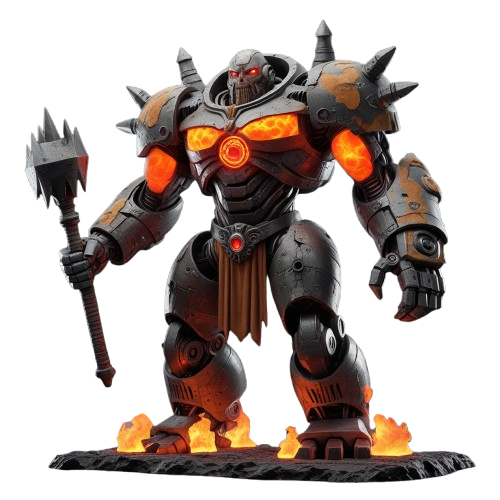
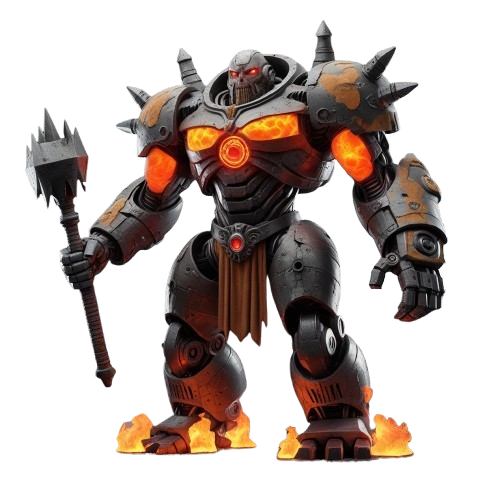
Огненный Колосс: спрайт + лава + пульс ядра + haze + 22 искры (v2.5.35)
- boss_fire.png — мех-воин с ядром в груди (skin 03)
- bg/fire.png — крепость в лаве с цепями (bg 3)
- CSS .bt-fire:
  · фон + animation:wb-fire-bg-pulse 2.6s — затемнение 22% акцентирует ядро
  · ::before оранжевый градиент-лава у ног, mix-blend-mode:screen
  · ::after backdrop-filter blur(.6px) + skew = heat haze
  · .wb-bimg2: --boss-glow:#ff6600, маска ног 26%, кастомная анимация
    wb-fire-glow с 3-слойным пульсирующим drop-shadow (синхронно с фоном)
  · .wb-shake → wb-fire-quake (более тяжёлая тряска: 7 кадров, ±4px)
  · .wb-ghost перекрашены через hue-rotate в оранжевые искры

Превью: /boss_scene_fire.html (с кнопкой ⚔ АТАКА для теста тряски)

diff --git a/webapp/boss_scene_fire.html b/webapp/boss_scene_fire.html
@@ -1,0 +1,187 @@
+<!doctype html>
+<html lang="ru"><head>
+<meta charset="utf-8">
+<meta name="viewport" content="width=390,initial-scale=1">
+<title>WB · Боевая сцена · ОГНЕННЫЙ КОЛОСС</title>
+<style>
+  *{box-sizing:border-box;margin:0;padding:0}
+  html,body{height:100%}
+  body{background:#020005;color:#e0e0e0;font:14px -apple-system,Segoe UI,Roboto,sans-serif;
+    display:flex;align-items:center;justify-content:center;min-height:100vh;padding:18px;}
+  .row{display:flex;flex-wrap:wrap;align-items:flex-start;gap:18px;}
+
+  .scene{position:relative;width:390px;height:680px;border-radius:14px;overflow:hidden;
+    background:#1a0500;border:1px solid rgba(255,100,0,.4);
+    box-shadow:0 0 60px rgba(255,80,0,.3);}
+
+  /* ── 1. ФОН ── (с пульсом затемнения) */
+  .bg{position:absolute;inset:0;z-index:1;
+    background-image:url('bosses/bg/fire.png');
+    background-size:cover;background-position:center bottom;
+    animation:bg-pulse 2.6s ease-in-out infinite;}
+  @keyframes bg-pulse{
+    0%,100%{filter:brightness(1.0)  saturate(1.05)}
+    50%   {filter:brightness(.78)   saturate(1.15)}}
+  /* Лава у ног — оранжевое свечение */
+  .bg::after{content:"";position:absolute;left:0;right:0;bottom:0;height:46%;
+    background:linear-gradient(to top,
+      rgba(255,90,0,.45) 0%, rgba(220,60,0,.25) 35%,
+      rgba(180,40,0,.10) 70%, transparent 100%);
+    mix-blend-mode:screen;pointer-events:none;}
+
+  /* Heat haze — дрожание воздуха */
+  .haze{position:absolute;left:0;right:0;bottom:0;height:55%;z-index:3;
+    pointer-events:none;backdrop-filter:blur(.6px);
+    -webkit-backdrop-filter:blur(.6px);
+    animation:haze-shimmer 5s ease-in-out infinite;}
+  @keyframes haze-shimmer{
+    0%,100%{transform:translateX(0) skewX(0)}
+    25%   {transform:translateX(-1.5px) skewX(.4deg)}
+    75%   {transform:translateX(1.5px) skewX(-.4deg)}}
+
+  /* ── 2. БОСС ── */
+  .boss-wrap{position:absolute;left:50%;bottom:13%;z-index:5;
+    transform:translateX(-50%);pointer-events:none;
+    height:67%;}
+  .boss{height:100%;width:auto;display:block;
+    -webkit-mask-image:linear-gradient(to bottom,
+      black 0%, black 74%, rgba(0,0,0,.6) 88%, transparent 100%);
+    mask-image:linear-gradient(to bottom,
+      black 0%, black 74%, rgba(0,0,0,.6) 88%, transparent 100%);
+    animation:boss-breathe 3.2s ease-in-out infinite,
+              boss-glow 2.6s ease-in-out infinite;}
+  @keyframes boss-breathe{
+    0%,100%{transform:scale(1)    translateY(0)}
+    50%   {transform:scale(1.025) translateY(-3px)}}
+  /* Пульсация ядра — drop-shadow становится ярче в такт с фоном (синхронно). */
+  @keyframes boss-glow{
+    0%,100%{filter:
+      drop-shadow(0 0 14px rgba(255,120,30,.7))
+      drop-shadow(0 0 32px rgba(255,80,0,.55))
+      drop-shadow(0 0 60px rgba(220,40,0,.4))
+      brightness(1)
+      saturate(1.1);}
+    50%{filter:
+      drop-shadow(0 0 28px rgba(255,180,60,.95))
+      drop-shadow(0 0 60px rgba(255,100,0,.85))
+      drop-shadow(0 0 110px rgba(255,60,0,.65))
+      brightness(1.18)
+      saturate(1.3);}}
+
+  /* ── 3. ИСКРЫ ── много, медленно вверх */
+  .vfx{position:absolute;inset:0;z-index:6;pointer-events:none;overflow:hidden;}
+  .p{position:absolute;width:5px;height:5px;border-radius:50%;
+    background:#ff8833;
+    box-shadow:0 0 10px #ff8833,0 0 20px #ff5500;
+    opacity:0;animation:p-up 6s linear infinite;}
+  .p.s2{width:3px;height:3px;animation-duration:8s;background:#ffcc44;
+    box-shadow:0 0 8px #ffcc44,0 0 18px #ffaa00;}
+  .p.s3{width:7px;height:7px;animation-duration:7s;opacity:.7;background:#ff5500;
+    box-shadow:0 0 12px #ff5500,0 0 22px #cc2200;}
+  @keyframes p-up{
+    0%{transform:translateY(0) scale(.3);opacity:0}
+    8%{opacity:1}
+    88%{opacity:.7}
+    100%{transform:translateY(-460px) scale(1.1);opacity:0}}
+  /* 22 искры */
+  .p:nth-child(1){left:6%; bottom:8%; animation-delay:.0s}
+  .p:nth-child(2){left:14%;bottom:6%; animation-delay:1.0s}
+  .p:nth-child(3){left:22%;bottom:8%; animation-delay:.5s}
+  .p:nth-child(4){left:30%;bottom:6%; animation-delay:2.0s}
+  .p:nth-child(5){left:38%;bottom:8%; animation-delay:.3s}
+  .p:nth-child(6){left:46%;bottom:6%; animation-delay:1.5s}
+  .p:nth-child(7){left:54%;bottom:8%; animation-delay:1.1s}
+  .p:nth-child(8){left:62%;bottom:6%; animation-delay:2.4s}
+  .p:nth-child(9){left:70%;bottom:8%; animation-delay:.9s}
+  .p:nth-child(10){left:78%;bottom:6%;animation-delay:3.0s}
+  .p:nth-child(11){left:86%;bottom:8%;animation-delay:.7s}
+  .p:nth-child(12){left:94%;bottom:6%;animation-delay:1.7s}
+  .p:nth-child(13){left:10%;bottom:8%;animation-delay:3.3s}
+  .p:nth-child(14){left:34%;bottom:7%;animation-delay:4.0s}
+  .p:nth-child(15){left:58%;bottom:8%;animation-delay:3.5s}
+  .p:nth-child(16){left:82%;bottom:7%;animation-delay:4.4s}
+  .p:nth-child(17){left:18%;bottom:7%;animation-delay:2.7s}
+  .p:nth-child(18){left:50%;bottom:6%;animation-delay:.4s}
+  .p:nth-child(19){left:66%;bottom:7%;animation-delay:3.7s}
+  .p:nth-child(20){left:42%;bottom:8%;animation-delay:5.0s}
+  .p:nth-child(21){left:74%;bottom:7%;animation-delay:5.5s}
+  .p:nth-child(22){left:26%;bottom:6%;animation-delay:4.7s}
+
+  .title{position:absolute;top:14px;left:14px;right:14px;z-index:10;
+    display:flex;justify-content:space-between;align-items:center;
+    font-size:11px;font-weight:800;letter-spacing:2px;color:#ff8833;
+    text-shadow:0 0 8px rgba(255,100,0,.7);text-transform:uppercase;}
+  .title .hp{font-family:'Courier New',monospace;color:#ff4488;}
+
+  .quake-btn{position:absolute;left:50%;bottom:24px;z-index:25;
+    transform:translateX(-50%);padding:11px 22px;border-radius:30px;
+    background:linear-gradient(135deg,#ff5500,#bb2200);color:#fff;
+    border:none;font-size:11px;font-weight:900;letter-spacing:2px;
+    cursor:pointer;box-shadow:0 0 20px rgba(255,80,0,.5);}
+  .scene.shake{animation:quake .55s ease-out;}
+  @keyframes quake{
+    0%,100%{transform:translate(0,0)}
+    10%{transform:translate(-3px,2px)}
+    25%{transform:translate(4px,-3px)}
+    40%{transform:translate(-3px,-2px)}
+    55%{transform:translate(2px,3px)}
+    70%{transform:translate(-2px,1px)}
+    85%{transform:translate(2px,-1px)}}
+
+  .legend{max-width:340px;font-size:12px;line-height:1.6;color:#ffaa88;}
+  .legend h3{color:#ff8833;font-size:14px;margin-bottom:10px;letter-spacing:1px;}
+  .legend code{background:rgba(255,100,0,.1);padding:1px 5px;border-radius:3px;color:#ffcc88;font-size:11px;}
+  .legend ul{padding-left:18px;margin:6px 0;}
+  .legend li{margin-bottom:4px;}
+</style>
+</head>
+<body>
+<div class="row">
+  <div class="scene" id="scene">
+    <div class="bg"></div>
+    <div class="title">
+      <span>🔥 ОГНЕННЫЙ КОЛОСС</span>
+      <span class="hp">HP 11 800 / 16 000</span>
+    </div>
+    <div class="boss-wrap">
+      <img class="boss" src="bosses/boss_fire.png" alt="Fire">
+    </div>
+    <div class="haze"></div>
+    <div class="vfx">
+      <div class="p"></div><div class="p s2"></div><div class="p s3"></div><div class="p"></div>
+      <div class="p s2"></div><div class="p"></div><div class="p s3"></div><div class="p"></div>
+      <div class="p"></div><div class="p s2"></div><div class="p s3"></div><div class="p"></div>
+      <div class="p"></div><div class="p s2"></div><div class="p"></div><div class="p s3"></div>
+      <div class="p"></div><div class="p s2"></div><div class="p"></div><div class="p s3"></div>
+      <div class="p"></div><div class="p"></div>
+    </div>
+    <button class="quake-btn" id="quake">⚔ АТАКА БОССА</button>
+  </div>
+
+  <div class="legend">
+    <h3>📋 Огненный Колосс — что собрано</h3>
+    <ul>
+      <li><b>Фон</b> — крепость в лаве с цепями (<code>bg/fire.png</code>)</li>
+      <li><b>Фон пульсирует</b> — синхронно затемняется на 22% за 2.6с,
+        акцентирует раскалённое ядро</li>
+      <li><b>Лава у ног</b> — оранжевый градиент 46% высоты с <code>mix-blend-mode:screen</code></li>
+      <li><b>Heat haze</b> — backdrop-filter blur(.6px) + skew, дрожит 5с</li>
+      <li><b>Босс</b> высота 67%, маска лап растворяет нижние 26% в лаву</li>
+      <li><b>Свечение</b> — 3-слойный <code>drop-shadow #ff6600</code>,
+        пульсирует синхронно с фоном (ядро в груди «горит»)</li>
+      <li><b>Искры</b> — 22 шт., 3 размера (мелкие/средние/крупные),
+        оранжевые/жёлтые/красные, 6–8с цикл</li>
+      <li><b>Тряска</b> — нажми ⚔ АТАКА чтобы увидеть тяжёлую тряску.
+        В реальной игре сработает на coronation strikes (75/50/25%)</li>
+    </ul>
+  </div>
+</div>
+<script>
+  document.getElementById('quake').addEventListener('click', () => {
+    const sc = document.getElementById('scene');
+    sc.classList.remove('shake'); void sc.offsetWidth;
+    sc.classList.add('shake');
+  });
+</script>
+</body>
+</html>

diff --git a/webapp/wb_html_battle_css.js b/webapp/wb_html_battle_css.js
@@ -84,6 +84,35 @@ window.WBBattleCSS = (() => {
   background:linear-gradient(to top,
     rgba(0,0,0,.85) 0%, rgba(15,5,35,.55) 35%,
     rgba(15,5,35,.15) 70%, transparent 100%);}
+
+/* Огненный Колосс — крепость в лаве, ноги в потоке расплавленного металла */
+.wb-boss-zone.bt-fire{
+  background-image:url('bosses/bg/fire.png');
+  background-size:cover;background-position:center bottom;background-color:#1a0500;
+  /* Лёгкое «дыхание» фона: он слегка темнеет в такт с пульсом ядра босса.
+     Затемнение акцентирует раскалённое ядро в груди. */
+  animation:wb-fire-bg-pulse 2.6s ease-in-out infinite;}
+@keyframes wb-fire-bg-pulse{
+  0%,100%{filter:brightness(1.0)   saturate(1.05)}
+  50%   {filter:brightness(.78)    saturate(1.15)}}
+/* Лава у ног — оранжевый туман-свечение, ступни тонут в потоке. */
+.wb-boss-zone.bt-fire::before{content:"";position:absolute;left:0;right:0;bottom:0;
+  height:46%;pointer-events:none;z-index:1;
+  background:linear-gradient(to top,
+    rgba(255,90,0,.45) 0%, rgba(220,60,0,.25) 35%,
+    rgba(180,40,0,.10) 70%, transparent 100%);
+  mix-blend-mode:screen;}
+/* Heat haze — лёгкое дрожание воздуха над лавой через wavy mask.
+   blur+animate-skew создаёт ощущение горячего воздуха. */
+.wb-boss-zone.bt-fire::after{content:"";position:absolute;left:0;right:0;bottom:0;
+  height:55%;pointer-events:none;z-index:3;
+  backdrop-filter:blur(.6px);
+  -webkit-backdrop-filter:blur(.6px);
+  animation:wb-fire-haze 5s ease-in-out infinite;}
+@keyframes wb-fire-haze{
+  0%,100%{transform:translateX(0) skewX(0)}
+  25%   {transform:translateX(-1.5px) skewX(.4deg)}
+  75%   {transform:translateX(1.5px) skewX(-.4deg)}}
 .wb-bimg2{position:absolute;left:50%;top:50%;
   --boss-glow:#9b30ff;
   transform:translate(-50%,-52%);
@@ -95,6 +124,33 @@ window.WBBattleCSS = (() => {
 .wb-boss-zone.bt-lich .wb-bimg2{
   -webkit-mask-image:linear-gradient(to bottom, black 0%, black 78%, rgba(0,0,0,.55) 90%, transparent 100%);
   mask-image:linear-gradient(to bottom, black 0%, black 78%, rgba(0,0,0,.55) 90%, transparent 100%);}
+
+/* Огненный Колосс: оранжевое мощное свечение + пульсация ядра + маска ног в лаву */
+.wb-boss-zone.bt-fire .wb-bimg2{
+  --boss-glow:#ff6600;
+  -webkit-mask-image:linear-gradient(to bottom, black 0%, black 74%, rgba(0,0,0,.6) 88%, transparent 100%);
+  mask-image:linear-gradient(to bottom, black 0%, black 74%, rgba(0,0,0,.6) 88%, transparent 100%);
+  /* Усиленное оранжевое drop-shadow + пульсация ядра в груди.
+     Анимация wb-bcore-pulse даёт «горячее» дыхание реактора. */
+  animation:wb-bfloat 3.2s ease-in-out infinite,
+            wb-fire-glow 2.6s ease-in-out infinite;}
+/* Кастомное мощное свечение для огненного — ярче и насыщеннее */
+@keyframes wb-fire-glow{
+  0%,100%{filter:
+    drop-shadow(0 0 14px rgba(255,120,30,.7))
+    drop-shadow(0 0 32px rgba(255,80,0,.55))
+    drop-shadow(0 0 60px rgba(220,40,0,.4))
+    brightness(1)
+    saturate(1.1);}
+  50%{filter:
+    drop-shadow(0 0 28px rgba(255,180,60,.95))
+    drop-shadow(0 0 60px rgba(255,100,0,.85))
+    drop-shadow(0 0 110px rgba(255,60,0,.65))
+    brightness(1.18)
+    saturate(1.3);}}
+/* Контактная тень-лужа лавы под ногами */
+.wb-boss-zone.bt-fire .wb-bimg2 + .wb-fire-puddle,
+.wb-boss-zone.bt-fire::after{}
 
 /* Теневой Страж: бирюзовое свечение глаз + анимация «рывка» каждые 4.5с.
    Маска снизу — лапы в чёрные камни. */
@@ -120,6 +176,26 @@ window.WBBattleCSS = (() => {
   0%,55%,72%,100%{transform:translate(-50%,-52%) scale(1)}
   60%{transform:translate(calc(-50% + 7px),-52%) scale(1.04)}
   66%{transform:translate(calc(-50% - 4px),-52%) scale(1)}}
+
+/* Усиленная тряска для огненного типа — более «тяжёлая» при атаке */
+.wb-boss-zone.bt-fire.wb-shake,
+#wb-root.wb-shake .wb-boss-zone.bt-fire{
+  animation:wb-fire-quake .55s ease-out;}
+@keyframes wb-fire-quake{
+  0%,100%{transform:translate(0,0)}
+  10%{transform:translate(-3px,2px)}
+  25%{transform:translate(4px,-3px)}
+  40%{transform:translate(-3px,-2px)}
+  55%{transform:translate(2px,3px)}
+  70%{transform:translate(-2px,1px)}
+  85%{transform:translate(2px,-1px)}}
+
+/* Дополнительные искры для огненного — много мелких частиц снизу вверх.
+   Включается через ::before на отдельном слое .wb-fire-sparks. */
+.wb-boss-zone.bt-fire .wb-ghost{
+  /* Перекрашиваем эмодзи-духов в оранжевые искры */
+  filter:hue-rotate(-50deg) saturate(2) brightness(1.3);
+  color:#ffaa44;}
 @keyframes wb-bfloat{
   0%,100%{transform:translate(-50%,-52%) scale(1) rotate(0deg)}
   30%{transform:translate(-50%,-55%) scale(1.02) rotate(.4deg)}

diff --git a/version.py b/version.py
@@ -3,9 +3,9 @@ version.py — текущая версия проекта Duel Arena.
 Обновляется при каждом значимом изменении.
 """
 
-VERSION = "2.5.34"
-VERSION_LABEL = "v2.5.34 — Теневой Страж: новый спрайт + пещера с молнией, бирюзовое свечение, рывок"
+VERSION = "2.5.35"
+VERSION_LABEL = "v2.5.35 — Огненный Колосс: спрайт + лава + пульс ядра + heat haze + 22 искры"
 
 # Игровая версия для UI (bot / mini app). Один источник истины.
 # При деплое с изменениями кода увеличивать на +0.01 (например 2.01 → 2.02).
-GAME_VERSION = "10.08"
+GAME_VERSION = "10.09"
